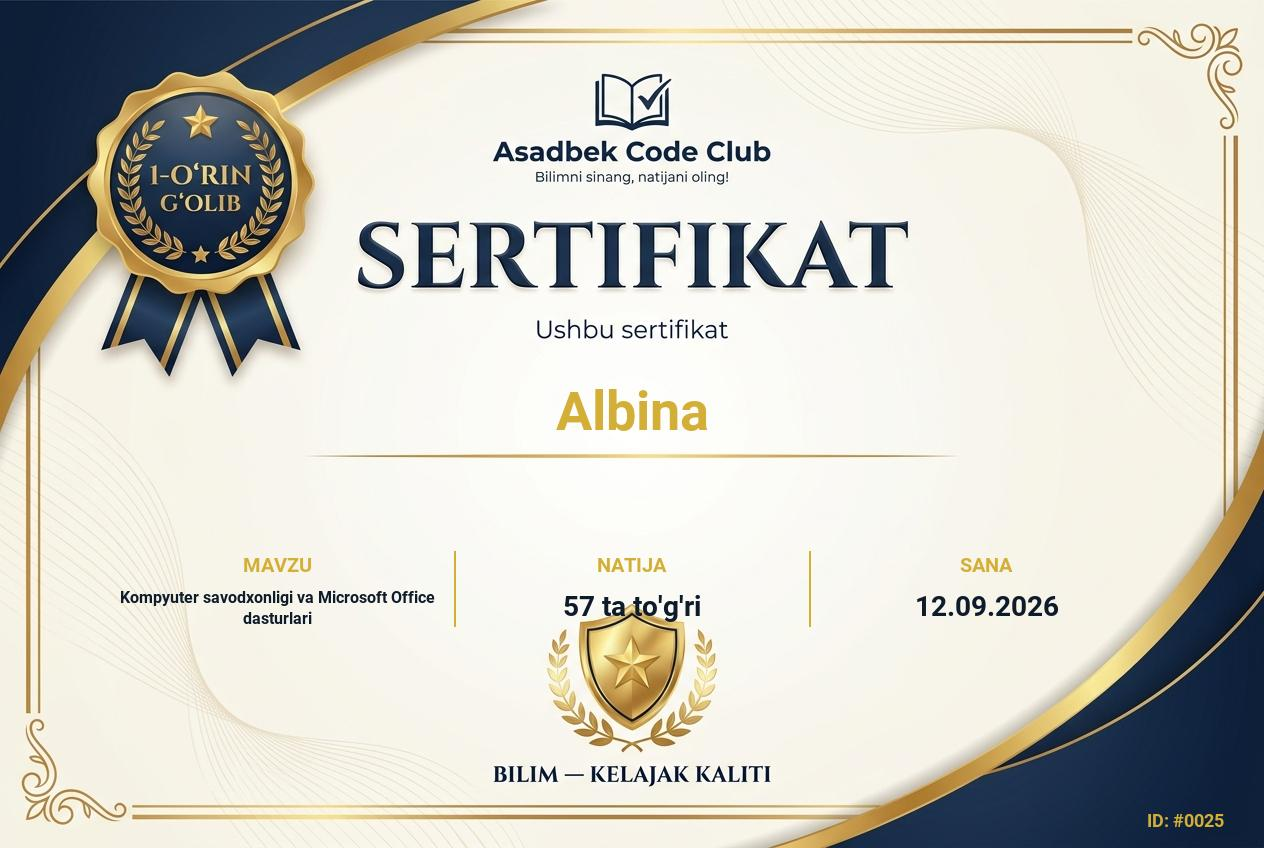
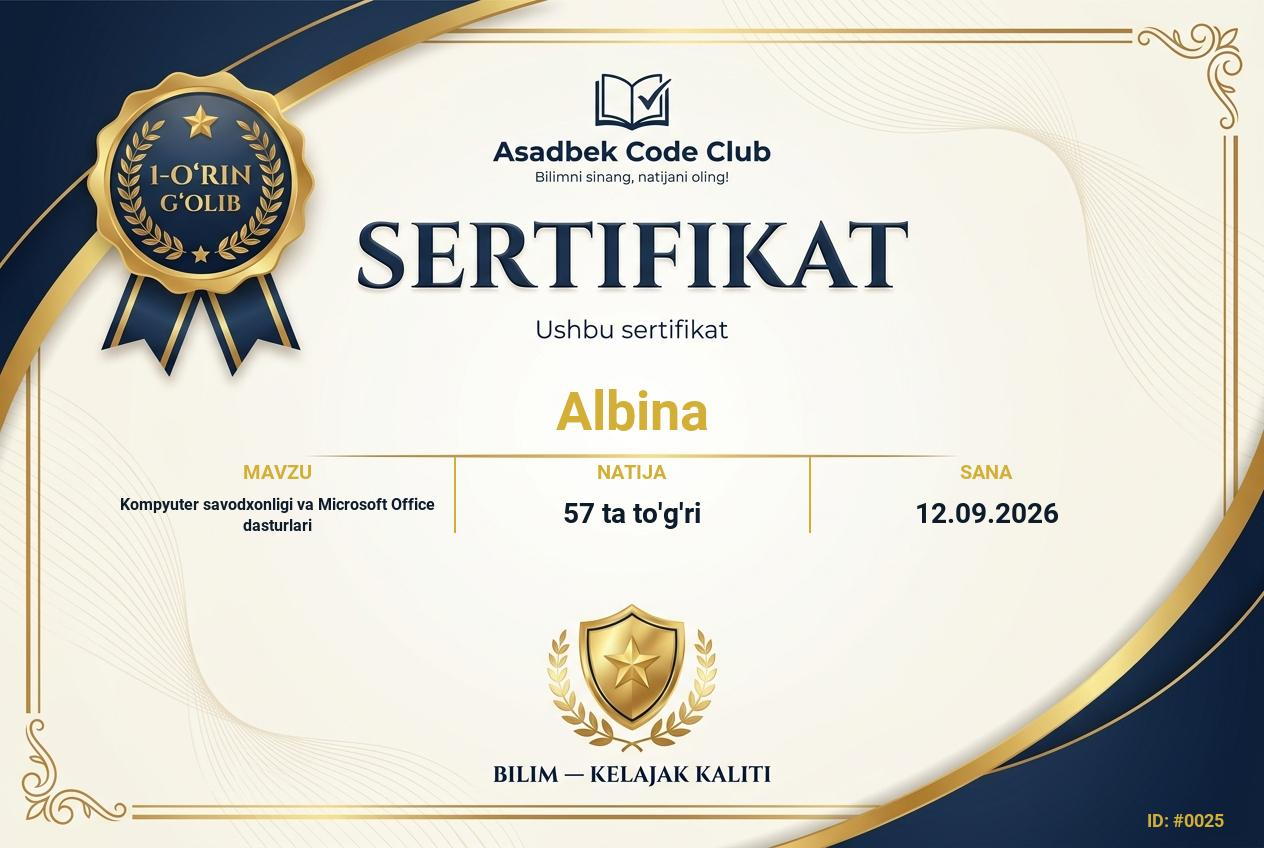
Add files via upload

diff --git a/utils/certificate.py b/utils/certificate.py
@@ -95,7 +95,8 @@ def generate_certificate(name, topic, score, cert_id):
     col2_center = safe_left + col_width * 1.5
     col3_center = safe_left + col_width * 2.5
     
-    base_y = img_h * 0.65
+    # ZONE 2: Information section (Raised to avoid the shield in ZONE 3)
+    base_y = img_h * 0.54
     val_y = base_y + 35
     
     # Labels
@@ -117,7 +118,7 @@ def generate_certificate(name, topic, score, cert_id):
     draw.line([(sep_x1, sep_y1), (sep_x1, sep_y2)], fill=gold_color, width=2)
     draw.line([(sep_x2, sep_y1), (sep_x2, sep_y2)], fill=gold_color, width=2)
     
-    # ID at the bottom right corner
+    # ZONE 5: ID at the bottom right corner
     bbox_id = draw.textbbox((0, 0), f"ID: #{cert_id:04d}", font=font_id)
     w_id = bbox_id[2] - bbox_id[0]
     draw.text((img_w - w_id - 40, img_h - 40), f"ID: #{cert_id:04d}", fill=gold_color, font=font_id)
